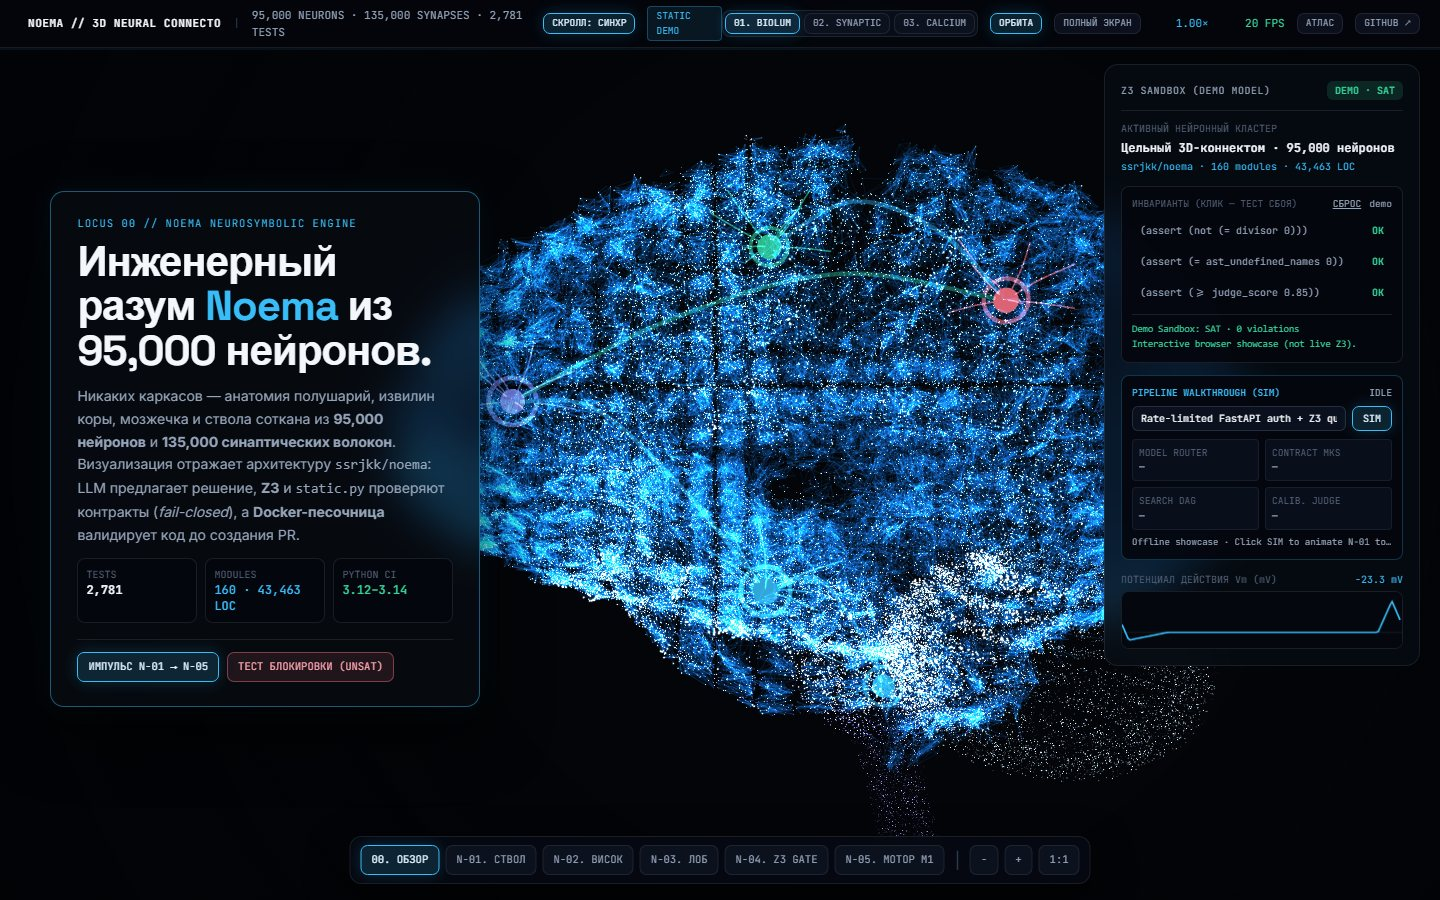
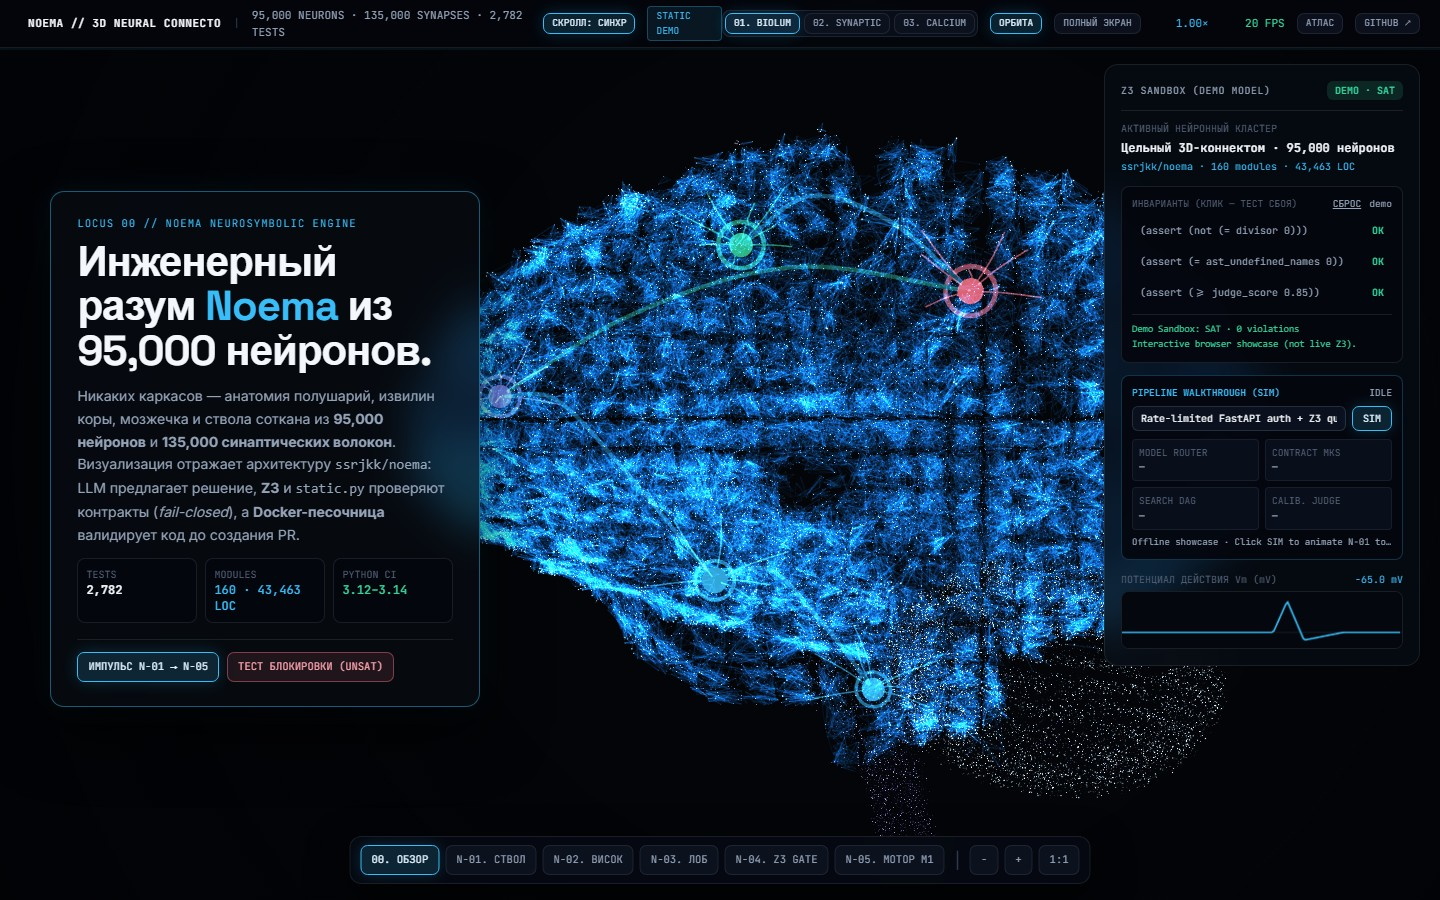
fix: keep Noema brain visible without WebGL

Changed region(s): [[0.3125, 0.1244, 0.8438, 0.9022], [0.875, 0.6844, 0.9375, 0.7156]]

diff --git a/docs/index.html b/docs/index.html
@@ -4,11 +4,11 @@
   <meta charset="UTF-8" />
   <meta name="viewport" content="width=device-width, initial-scale=1.0" />
   <title>NOEMA — 3D Neural Connectome Brain &amp; Z3 Atlas</title>
-  <meta name="description" content="Noema — нейросимвольный движок: LLM предлагает решение, Z3 доказывает его формально, Docker-песочница валидирует код до PR. 3D-коннектом из 95 000 нейронов — витрина тракта задачи. FastAPI, gRPC-федерация, MCP, 2 781 тест.">
+  <meta name="description" content="Noema — нейросимвольный движок: LLM предлагает решение, Z3 доказывает его формально, Docker-песочница валидирует код до PR. 3D-коннектом из 95 000 нейронов — витрина тракта задачи. FastAPI, gRPC-федерация, MCP, 2 782 тест.">
   <meta property="og:type" content="website">
   <meta property="og:site_name" content="SSRJKK">
   <meta property="og:title" content="NOEMA — 3D Neural Connectome Brain &amp; Z3 Atlas">
-  <meta property="og:description" content="Noema — нейросимвольный движок: LLM предлагает решение, Z3 доказывает его формально, Docker-песочница валидирует код до PR. 3D-коннектом из 95 000 нейронов. FastAPI, gRPC-федерация, MCP, 2 781 тест.">
+  <meta property="og:description" content="Noema — нейросимвольный движок: LLM предлагает решение, Z3 доказывает его формально, Docker-песочница валидирует код до PR. 3D-коннектом из 95 000 нейронов. FastAPI, gRPC-федерация, MCP, 2 782 тест.">
   <meta property="og:url" content="https://ssrjkk.github.io/noema/">
   <meta property="og:locale" content="ru_RU">
   <meta property="og:image" content="https://ssrjkk.github.io/noema/og-card.png">
@@ -66,8 +66,17 @@
       background: radial-gradient(circle at 62% 48%, #0B1324 0%, #050811 52%, #020306 100%);
     }
 
-    #webglViewport canvas { display: block; width: 100%; height: 100%; cursor: grab; }
+    #webglViewport canvas { position: absolute; inset: 0; display: block; width: 100%; height: 100%; cursor: grab; }
     #webglViewport canvas:active { cursor: grabbing; }
+    #webglViewport #brainFallback { z-index: 0; cursor: default; }
+    #webglViewport canvas:not(#brainFallback) { z-index: 1; }
+    #webglViewport canvas[hidden], #brainFallback[hidden], #brainUnavailableNotice[hidden] { display: none; }
+    #brainUnavailableNotice {
+      position: absolute; z-index: 2; left: 50%; bottom: 12%; transform: translateX(-50%);
+      width: min(520px, calc(100% - 32px)); padding: 12px 16px; border: 1px solid rgba(148,163,184,.28);
+      border-radius: 10px; background: rgba(4,7,13,.9); color: #94A3B8; text-align: center;
+      font: 12px/1.5 'JetBrains Mono', monospace;
+    }
 
     .ambient-vignette {
       position: fixed;
@@ -214,6 +223,16 @@
     .smt-toggle:hover { background: rgba(56, 189, 248, 0.08); border-color: rgba(56, 189, 248, 0.22); }
     .smt-toggle.violated { background: rgba(251, 113, 133, 0.14); border-color: rgba(251, 113, 133, 0.5); }
 
+    @media (max-width: 767px) {
+      .locus-card {
+        background: linear-gradient(180deg, rgba(4,7,13,.30), rgba(4,7,13,.70));
+        backdrop-filter: blur(4px);
+      }
+      .locus-card h1, .locus-card h2, .locus-card p, .locus-card code {
+        text-shadow: 0 1px 10px rgba(2,3,6,.95);
+      }
+    }
+
     @media (prefers-reduced-motion: reduce) {
       .scroll-progress-fill, .story-column, .locus-card, .ctrl-btn, .smt-toggle {
         transition: none !important;
@@ -223,7 +242,10 @@
 </head>
 <body>
 
-  <div id="webglViewport" role="img" aria-label="Интерактивная 3D-модель мозга Noema из 95 000 нейронов"></div>
+  <div id="webglViewport" role="img" aria-label="Интерактивная 3D-модель мозга Noema из 95 000 нейронов">
+    <canvas id="brainFallback" aria-hidden="true"></canvas>
+    <div id="brainUnavailableNotice" role="status" hidden></div>
+  </div>
   <div class="ambient-vignette" aria-hidden="true"></div>
 
   <header class="top-hud flex items-center justify-between px-3 sm:px-5 font-mono-tech text-[11px] text-[#94A3B8]">
@@ -233,7 +255,7 @@
         NOEMA // 3D NEURAL CONNECTOME
       </span>
       <span class="hidden lg:inline text-[#334155]" aria-hidden="true">|</span>
-      <span class="hidden lg:inline text-[#94A3B8]">95,000 NEURONS · 135,000 SYNAPSES · 2,781 TESTS</span>
+      <span class="hidden lg:inline text-[#94A3B8]">95,000 NEURONS · 135,000 SYNAPSES · 2,782 TESTS</span>
       <button id="btnCameraSync" class="ctrl-btn py-0.5 px-2 text-[9.5px] active" aria-pressed="true" data-desc="камера следует за скроллом">СКРОЛЛ: СИНХР</button>
       <span class="hidden sm:inline px-2 py-0.5 rounded bg-[#38BDF8]/10 border border-[#38BDF8]/30 text-[#38BDF8] text-[9.5px]">STATIC DEMO</span>
     </div>
@@ -357,7 +379,7 @@ Interactive browser showcase (not live Z3).</pre>
         <div class="grid grid-cols-3 gap-2 mb-4 font-mono-tech text-[10px]">
           <div class="p-2 rounded-lg bg-[#04070D]/90 border border-[#94A3B8]/15">
             <div class="text-[#526075]">TESTS</div>
-            <div class="text-[#F4F7FB] font-semibold text-xs">2,781</div>
+            <div class="text-[#F4F7FB] font-semibold text-xs">2,782</div>
           </div>
           <div class="p-2 rounded-lg bg-[#04070D]/90 border border-[#94A3B8]/15">
             <div class="text-[#526075]">MODULES</div>
@@ -492,19 +514,120 @@ Interactive browser showcase (not live Z3).</pre>
     }
     const rng = mulberry32(20261119);
 
-    // Three.js is the one hard external dependency. Without a guard the page dies on the
-    // first `new THREE.*` below and shows nothing but a black rectangle.
+    // A dependency-free brain is visible before WebGL starts and remains if the CDN,
+    // GPU or context is unavailable. The 3D connectome replaces it only after render.
     const container = document.getElementById('webglViewport');
+    const fallbackCanvas = document.getElementById('brainFallback');
+    const fallbackNotice = document.getElementById('brainUnavailableNotice');
+
+    function drawBrainFallback() {
+      const rect = container.getBoundingClientRect();
+      const dpr = Math.min(window.devicePixelRatio || 1, 2);
+      const width = Math.max(1, rect.width);
+      const height = Math.max(1, rect.height);
+      fallbackCanvas.width = Math.round(width * dpr);
+      fallbackCanvas.height = Math.round(height * dpr);
+      const ctx = fallbackCanvas.getContext('2d');
+      ctx.setTransform(dpr, 0, 0, dpr, 0, 0);
+      ctx.clearRect(0, 0, width, height);
+
+      const scale = Math.min(width / 900, height / 650);
+      const originX = width > 900 ? width * 0.58 : width * 0.5;
+      const originY = height * (width < 768 ? 0.38 : 0.52);
+      ctx.save();
+      ctx.translate(originX, originY);
+      ctx.scale(scale, scale);
+
+      const brain = new Path2D();
+      brain.moveTo(-250, -30);
+      brain.bezierCurveTo(-285, -120, -210, -215, -115, -205);
+      brain.bezierCurveTo(-70, -250, 20, -250, 70, -205);
+      brain.bezierCurveTo(210, -215, 285, -120, 250, -30);
+      brain.bezierCurveTo(285, 70, 190, 155, 95, 145);
+      brain.bezierCurveTo(40, 185, -15, 150, -30, 115);
+      brain.bezierCurveTo(-90, 165, -190, 130, -215, 75);
+      brain.bezierCurveTo(-265, 55, -280, 10, -250, -30);
+      brain.closePath();
+
+      const glow = ctx.createRadialGradient(0, -20, 20, 0, -20, 330);
+      glow.addColorStop(0, 'rgba(56,189,248,.18)');
+      glow.addColorStop(0.55, 'rgba(129,140,248,.09)');
+      glow.addColorStop(1, 'rgba(3,5,8,0)');
+      ctx.fillStyle = glow;
+      ctx.fillRect(-340, -280, 680, 560);
+
+      ctx.save();
+      ctx.clip(brain);
+      const points = [];
+      const palette = ['#38BDF8', '#818CF8', '#34D399', '#FB7185'];
+      for (let i = 0; i < 2600 && points.length < 950; i++) {
+        const x = (rng() - 0.5) * 610;
+        const y = (rng() - 0.5) * 470;
+        if (!ctx.isPointInPath(brain, x, y)) continue;
+        points.push({ x, y, size: 0.7 + rng() * 1.8, color: palette[Math.floor(rng() * palette.length)] });
+      }
+      ctx.globalCompositeOperation = 'lighter';
+      for (let i = 10; i < points.length; i++) {
+        const p = points[i];
+        for (let j = i - 1; j > i - 9; j--) {
+          const q = points[j];
+          const dist = Math.hypot(p.x - q.x, p.y - q.y);
+          if (dist > 42) continue;
+          ctx.strokeStyle = 'rgba(99,102,241,.16)';
+          ctx.lineWidth = 0.55;
+          ctx.beginPath();
+          ctx.moveTo(q.x, q.y);
+          ctx.lineTo(p.x, p.y);
+          ctx.stroke();
+        }
+      }
+      for (const p of points) {
+        ctx.fillStyle = p.color;
+        ctx.globalAlpha = 0.45 + rng() * 0.5;
+        ctx.beginPath();
+        ctx.arc(p.x, p.y, p.size, 0, Math.PI * 2);
+        ctx.fill();
+      }
+      ctx.restore();
+
+      ctx.globalAlpha = 1;
+      ctx.strokeStyle = 'rgba(56,189,248,.5)';
+      ctx.lineWidth = 1.6;
+      ctx.stroke(brain);
+      ctx.strokeStyle = 'rgba(148,163,184,.22)';
+      ctx.lineWidth = 1;
+      ctx.beginPath();
+      ctx.moveTo(0, -225);
+      ctx.bezierCurveTo(-18, -120, 18, -20, 0, 120);
+      ctx.stroke();
+
+      const hubs = [[-120,-80,'#34D399'],[70,-40,'#FB7185'],[-50,60,'#818CF8'],[125,70,'#38BDF8']];
+      for (const [x, y, color] of hubs) {
+        ctx.strokeStyle = color;
+        ctx.globalAlpha = 0.45;
+        ctx.beginPath();
+        ctx.arc(x, y, 18, 0, Math.PI * 2);
+        ctx.stroke();
+        ctx.globalAlpha = 1;
+        ctx.fillStyle = color;
+        ctx.beginPath();
+        ctx.arc(x, y, 4, 0, Math.PI * 2);
+        ctx.fill();
+      }
+      ctx.restore();
+    }
+
+    drawBrainFallback();
+    window.addEventListener('resize', () => {
+      if (!fallbackCanvas.hidden) drawBrainFallback();
+    });
+
     function showUnavailable(message) {
-      container.style.display = 'flex';
-      container.style.alignItems = 'center';
-      container.style.justifyContent = 'center';
-      container.style.padding = '24px';
-      container.style.color = '#94A3B8';
-      container.style.fontFamily = "'JetBrains Mono', monospace";
-      container.style.fontSize = '13px';
-      container.style.textAlign = 'center';
-      container.textContent = message;
+      fallbackCanvas.hidden = false;
+      fallbackNotice.textContent = message;
+      fallbackNotice.hidden = false;
+      const rendered = container.querySelector('canvas:not(#brainFallback)');
+      if (rendered) rendered.hidden = true;
     }
     if (typeof THREE === 'undefined') {
       showUnavailable(
@@ -550,6 +673,8 @@ Interactive browser showcase (not live Z3).</pre>
     renderer.setPixelRatio(Math.min(window.devicePixelRatio || 1, 2));
     renderer.setClearColor(0x030508, 1);
     container.appendChild(renderer.domElement);
+    fallbackCanvas.hidden = true;
+    fallbackNotice.hidden = true;
     renderer.domElement.setAttribute('aria-hidden', 'true');
 
     // three r128 пересобирает свои GL-подсистемы на webglcontextrestored, но для посетителя
@@ -570,6 +695,8 @@ Interactive browser showcase (not live Z3).</pre>
       if (show) {
         if (hud) { hud.textContent = 'нет GL'; hud.style.color = '#FB7185'; }
         if (viewport) viewport.setAttribute('aria-label', VIEWPORT_ARIA + ' — графический контекст потерян, сцена остановлена');
+        fallbackCanvas.hidden = false;
+        renderer.domElement.hidden = true;
         if (glLostNotice) return;
         glLostNotice = document.createElement('div');
         glLostNotice.setAttribute('role', 'alert');
@@ -593,6 +720,8 @@ Interactive browser showcase (not live Z3).</pre>
       } else {
         if (hud) { hud.textContent = '— FPS'; hud.style.color = ''; }
         if (viewport) viewport.setAttribute('aria-label', VIEWPORT_ARIA);
+        fallbackCanvas.hidden = true;
+        renderer.domElement.hidden = false;
         if (glLostNotice) { glLostNotice.remove(); glLostNotice = null; }
       }
     }

diff --git a/docs/atlas.html b/docs/atlas.html
@@ -4,11 +4,11 @@
 <meta charset="utf-8">
 <meta name="viewport" content="width=device-width,initial-scale=1">
 <title>Noema — атлас нейросимвольного движка</title>
-<meta name="description" content="Noema — нейросимвольный движок: LLM предлагает решение, Z3 доказывает его формально. Пройдите по отделам мозга — каждый отдел это часть системы. FastAPI, gRPC-федерация, MCP, 2 781 тест.">
+<meta name="description" content="Noema — нейросимвольный движок: LLM предлагает решение, Z3 доказывает его формально. Пройдите по отделам мозга — каждый отдел это часть системы. FastAPI, gRPC-федерация, MCP, 2 782 тест.">
 <meta property="og:type" content="website">
 <meta property="og:site_name" content="SSRJKK">
 <meta property="og:title" content="Noema — атлас нейросимвольного движка">
-<meta property="og:description" content="Noema — нейросимвольный движок: LLM предлагает решение, Z3 доказывает его формально. Пройдите по отделам мозга — каждый отдел это часть системы. FastAPI, gRPC-федерация, MCP, 2 781 тест.">
+<meta property="og:description" content="Noema — нейросимвольный движок: LLM предлагает решение, Z3 доказывает его формально. Пройдите по отделам мозга — каждый отдел это часть системы. FastAPI, gRPC-федерация, MCP, 2 782 тест.">
 <meta property="og:url" content="https://ssrjkk.github.io/noema/atlas.html">
 <meta property="og:locale" content="ru_RU">
 <meta name="twitter:card" content="summary">
@@ -335,7 +335,7 @@ footer a:hover{border-bottom-color:var(--artery)}
 </div>
 
 <div class="stats">
-  <div class="stat"><b>2 781</b><span>тест · pytest + hypothesis</span></div>
+  <div class="stat"><b>2 782</b><span>тест · pytest + hypothesis</span></div>
   <div class="stat"><b>160</b><span>python-модулей</span></div>
   <div class="stat"><b>3.14</b><span>python в docker-образе</span></div>
   <div class="stat"><b>6</b><span>отделов атласа</span></div>

diff --git a/tests/test_docs_site.py b/tests/test_docs_site.py
@@ -95,3 +95,13 @@ def test_sitemap_lists_published_pages() -> None:
     ):
         assert f"<loc>{loc}</loc>" in sitemap, f"{loc} missing from docs/sitemap.xml"
     assert "https://ssrjkk.github.io/noema/sitemap.xml" in robots
+
+
+def test_brain_has_a_dependency_free_fallback() -> None:
+    html = _page("index.html")
+    assert 'id="brainFallback"' in html
+    assert 'id="brainUnavailableNotice"' in html
+    assert "function drawBrainFallback()" in html
+    assert "fallbackCanvas.hidden = true" in html
+    assert "fallbackCanvas.hidden = false" in html
+    assert "container.textContent = message" not in html

diff --git a/README.ru.md b/README.ru.md
@@ -299,7 +299,7 @@ noema/
 
 | Метрика | Значение |
 |---|---|
-| **Тесты** | 2 781 собрано (2 764 passed + 17 skipped на Ubuntu / 3.12; pytest + hypothesis + pytest-benchmark) |
+| **Тесты** | 2 782 собрано (2 765 passed + 17 skipped на Ubuntu / 3.12; pytest + hypothesis + pytest-benchmark) |
 | **Исходные файлы** | 225 Python-файлов в `noema/` (160 модулей + 65 `__init__`) |
 | **Строки кода** | 43 463 всего, 36 815 — код (остальное пустые и комментарии) |
 | **CI** | Ruff lint + format, mypy, bandit, safety, pip-audit |

diff --git a/README.md b/README.md
@@ -305,7 +305,7 @@ noema/
 
 | Metric | Value |
 |---|---|
-| **Tests** | 2,781 collected — unit, hypothesis property and pytest-benchmark cases (2,764 passed + 17 skipped on Ubuntu / 3.12) |
+| **Tests** | 2,782 collected — unit, hypothesis property and pytest-benchmark cases (2,765 passed + 17 skipped on Ubuntu / 3.12) |
 | **Source files** | 225 Python files under `noema/` (160 modules + 65 package `__init__`) |
 | **Lines of code** | 43,463 lines, 36,815 of them code (the rest blank and comments) |
 | **CI** | Ruff lint + format, encoding/mojibake gate, mypy, bandit + pip-audit, golden eval, merge gate |
